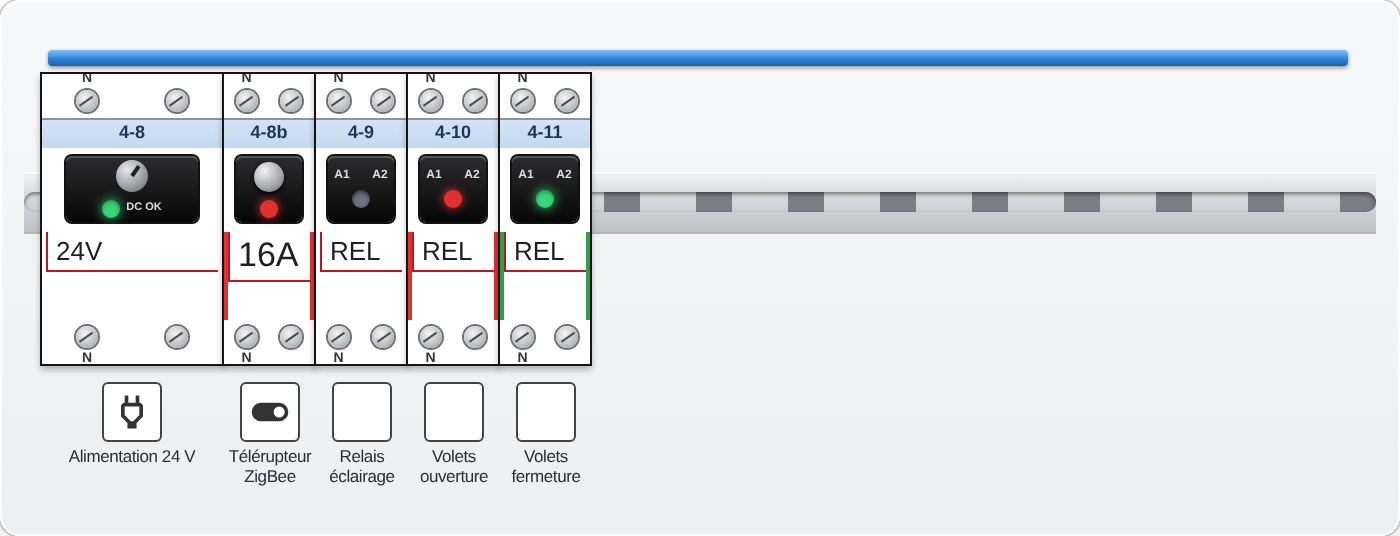
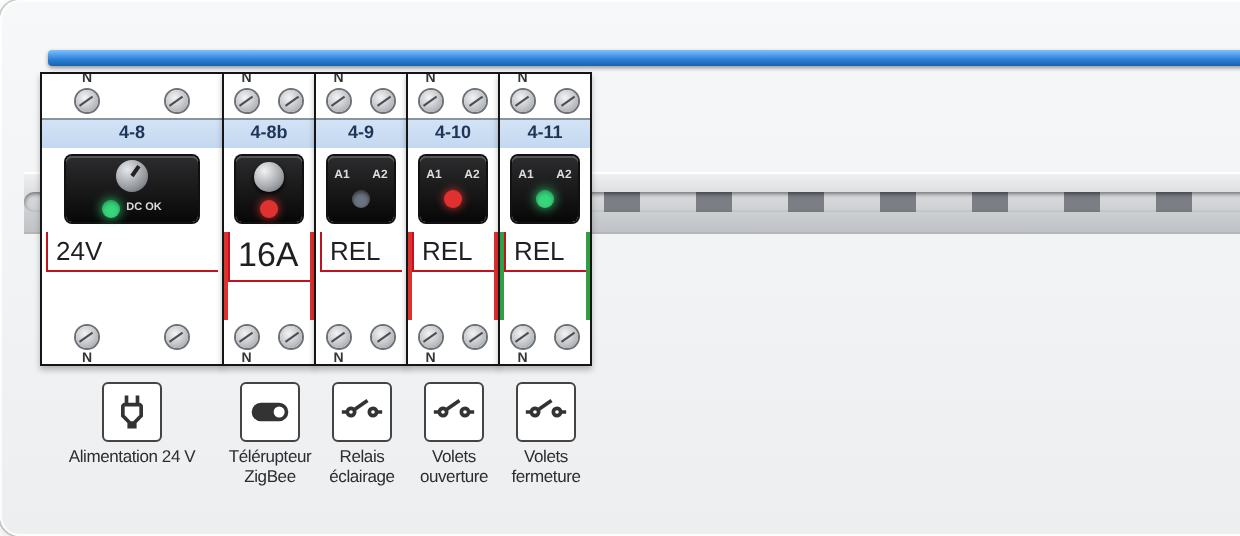
Version 1.17.2 : captures du README (nouveau look) + icône par défaut du relais corrigée
Claude-Session: https://claude.ai/code/session_01Sw7amaXGFQDcEWAWfyfn9E

diff --git a/dist/din-panel-card.js b/dist/din-panel-card.js
@@ -363,7 +363,7 @@ var Ce=globalThis,Me=Ce.ShadowRoot&&(Ce.ShadyCSS===void 0||Ce.ShadyCSS.nativeSha
   button.add { margin: 6px 0; } button.danger { color: var(--error-color); }
   .banner { padding: 10px; border-radius: 8px; background: var(--warning-color, #f59f00); color: #000; margin-bottom: 10px; }
   .note { font-size: 12px; color: var(--secondary-text-color); margin: 8px 0; }
-`;var Pt={differential:{type:"differential"},rcd:{type:"differential"},diff:{type:"differential"},breaker:{type:"breaker"},breaker_1p:{type:"breaker",poles:1},breaker_2p:{type:"breaker",poles:2},breaker_3p:{type:"breaker",poles:3},breaker_4p:{type:"breaker",poles:4},three_phase:{type:"breaker",poles:3},tetrapolar:{type:"breaker",poles:4},contactor_daynight:{type:"contactor_daynight"},daynight:{type:"contactor_daynight"},contactor:{type:"contactor"},power_contactor:{type:"contactor"},impulse:{type:"impulse"},telerupteur:{type:"impulse"},tele:{type:"impulse"},relay:{type:"relay"},relais:{type:"relay"},psu:{type:"psu"},power_supply:{type:"psu"},alimentation:{type:"psu"},surge:{type:"surge"},surge_arrester:{type:"surge"},meter:{type:"meter"},free:{type:"free"},custom:{type:"custom"}},kn={differential:{poles:2},breaker:{poles:1},contactor_daynight:{poles:1,width:2},contactor:{poles:1,width:2},impulse:{poles:2,width:1},relay:{poles:2,width:1},psu:{poles:2,width:2},surge:{poles:2},meter:{poles:2,width:4},free:{poles:1,width:1},custom:{poles:1,width:1}},Rt=(t,e,n)=>Math.min(n,Math.max(e,t)),I=t=>t==null||t===""?void 0:String(t);function Le(t){let e={};for(let[n,o]of Object.entries(t))o!=null&&o!==""&&(e[n]=o);return e}function Ge(t){return[{id:"tableau_1",label:"Tableau principal",rows:t.map(n=>{let o=(n.phases?.length??0)>=3,r=Le({id:n.id,type:"differential",label:n.label,poles:n.poles??(o?4:void 0),amp:n.amp,mA:n.mA,class:n.class,sensor:n.sensor,max_w:n.max_w,accent:n.accent}),s=(n.circuits??[]).map(a=>{let{type:d,...i}=a;return Le({...i,type:"breaker",usage:d,poles:a.poles??(o?3:void 0)})});return Le({id:String(n.id),label:n.label??String(n.id),phases:n.phases,accent:n.accent,modules:[r,...s]})})}]}function An(t){let e={circuits:new Map,groups:new Map};for(let n of t??[]){e.groups.set(String(n.id),n);for(let o of n.circuits??[])e.circuits.has(String(o.id))||e.circuits.set(String(o.id),o)}return e}function Cn(t){return typeof t=="string"?{room:t}:Le({floor:I(t.floor),room:I(t.room),icon:t.icon,sensor:t.sensor})}function Mn(t,e,n,o){let r={...t};if(t.circuit!==void 0&&o.circuits.has(String(t.circuit))){let g=o.circuits.get(String(t.circuit)),{type:y,...M}=g;r={...M,type:"breaker",usage:y,...t}}if(t.group!==void 0&&o.groups.has(String(t.group))){let{circuits:g,...y}=o.groups.get(String(t.group));r={...y,type:"differential",...t}}let s=Pt[String(r.type??"breaker").toLowerCase()]??Pt.custom,a=s.type,d=(r.phases??e.phases).map(g=>String(g).toUpperCase()),i=kn[a],c=r.poles??s.poles??(a==="breaker"&&d.length>=3?3:void 0),v=Rt(Number(r.width??i.width??c??i.poles)||1,1,12),x=Rt(Number(c??(a==="breaker"&&v===1?2:i.poles))||1,1,4),f=["power","socket","light"].includes(String(r.usage))?r.usage:"other";return{id:I(r.id)??`${e.id}-${n+1}`,type:a,label:I(r.label),poles:x,width:v,amp:r.amp!==void 0?Number(r.amp):void 0,mA:r.mA!==void 0?Number(r.mA):void 0,cls:I(r.class),curve:I(r.curve),usage:f,icon:r.icon,accent:r.accent,phases:d,sensor:r.sensor,current_sensor:r.current_sensor,voltage_sensor:r.voltage_sensor,state_entity:r.state_entity,max_w:r.max_w!==void 0?Number(r.max_w):void 0,zones:(r.zones??[]).map(Cn),note:I(r.note),output:I(r.output),section:I(r.section)}}function Sn(t,e,n){let o=I(t.id)??`row_${e+1}`,r=(t.phases??[]).map(d=>String(d).toUpperCase()),s=(t.modules??[]).map((d,i)=>Mn(d,{phases:r,id:o},i,n)),a;for(let d of s)d.type==="differential"?(a=d,d.children=[]):a&&d.type!=="free"&&d.type!=="meter"&&a.children.push(d);return{id:o,label:I(t.label),phases:r,accent:t.accent,modules:s}}function En(t){let e=Math.floor(Number(t));return Number.isFinite(e)&&e>=1?Math.min(e,60):void 0}function Tt(t){let e=An(t.groups),n=t.panels??(t.groups?Ge(t.groups):[]),o=Number(t.nominal_voltage)>0?Number(t.nominal_voltage):void 0,r=n.map((s,a)=>({id:I(s.id)??`panel_${a+1}`,label:I(s.label),capacity:En(s.modules_per_row??t.modules_per_row),rows:(s.rows??[]).map((d,i)=>Sn(d,i,e))}));if(o)for(let s of r)for(let a of s.rows)for(let d of a.modules)d.volts=o;return r}function Ot(t){if(!t||!t.panels&&!t.groups)throw new Error("Configuration invalide : d\xE9finir 'panels' (nouveau format) ou 'groups' (ancien format).");if(t.max_width!==void 0&&!(typeof t.max_width=="number"&&t.max_width>0))throw new Error("'max_width' doit \xEAtre un nombre positif de pixels (ex. 1100), sans unit\xE9.");let e=n=>n!==void 0&&!(Number.isInteger(n)&&n>=1);if(e(t.modules_per_row)||(t.panels??[]).some(n=>e(n.modules_per_row)))throw new Error("'modules_per_row' doit \xEAtre un entier \u2265 1 (nombre de modules DIN par rang\xE9e).");if(t.panels&&!Array.isArray(t.panels))throw new Error("'panels' doit \xEAtre une liste.");if(t.groups&&!Array.isArray(t.groups))throw new Error("'groups' doit \xEAtre une liste.")}function Nt(t,e){let n=new Set,o=r=>{r&&n.add(r)};o(t.sensors?.total?.entity),o(t.sensors?.total?.current_sensor),o(t.sensors?.total?.voltage_sensor);for(let r of Object.values(t.sensors?.phases??{}))o(r?.entity),o(r?.current_sensor),o(r?.voltage_sensor);for(let r of e)for(let s of r.rows)for(let a of s.modules){o(a.sensor),o(a.current_sensor),o(a.voltage_sensor),o(a.state_entity);for(let d of a.zones)o(d.sensor)}return[...n]}var Ze=t=>!t||t==="unavailable"||t==="unknown";function Ye(t,e,n="raw"){if(!e)return{status:"none",value:null};let o=t.states[e];if(!o||Ze(o.state))return{status:"unavailable",value:null};let r=parseFloat(o.state);return Number.isFinite(r)?(n==="current"&&o.attributes?.unit_of_measurement==="mA"&&(r/=1e3),{status:"ok",value:r}):{status:"unavailable",value:null}}var zn={W:["power",1],kW:["power",1e3],MW:["power",1e6],mW:["power",.001],Wh:["energy",1],kWh:["energy",1e3],MWh:["energy",1e6],A:["current",1],mA:["current",.001],V:["voltage",1],mV:["voltage",.001],kV:["voltage",1e3]},Ln={power:["power",1],energy:["energy",1e3],current:["current",1],voltage:["voltage",1]};function G(t,e,n="power"){if(!e)return{status:"none",value:null,kind:n};let o=t.states[e],r=o?.attributes??{},[s,a]=zn[r.unit_of_measurement]??Ln[r.device_class]??[n,1];if(!o||Ze(o.state))return{status:"unavailable",value:null,kind:s};let d=parseFloat(o.state);return Number.isFinite(d)?{status:"ok",value:d*a,kind:s}:{status:"unavailable",value:null,kind:s}}function T(t,e){if(!e)return null;let n=t.states[e]?.state?.toLowerCase();if(!n||Ze(n))return null;if(["on","true","closed","active","enabled","home","heat","playing","1"].includes(n))return!0;if(["off","false","open","inactive","disabled","not_home","idle","standby","0"].includes(n))return!1;let o=parseFloat(n);return Number.isFinite(o)?o>0:null}var Ht=["power","energy","current","voltage"],jt=(t,e)=>Ht.indexOf(t.kind)-Ht.indexOf(e.kind);function Ut(t,e,n=t.length){let o=[...new Set(t.map(a=>a.kind))],r=o.filter(a=>t.some(d=>d.kind===a&&d.value!==null));return(r.length?r:o.slice(0,1)).map(a=>{let d=t.filter(i=>i.kind===a&&i.value!==null);return{kind:a,source:e,value:d.length?d.reduce((i,c)=>i+c.value,0):null,partial:d.length<n||d.some(i=>i.partial)}}).sort(jt)}var Pn=t=>{let e=t[0];return t.length?{configured:!0,value:e.value,kind:e.kind,source:e.source,partial:e.partial,counters:t}:{configured:!1,value:null,kind:"power",source:"none",partial:!1,counters:[]}},It=new WeakMap;function j(t,e){let n=It.get(e);if(n&&n.h===t)return n.p;let o=Rn(t,e);return It.set(e,{h:t,p:o}),o}function Rn(t,e){let n=[],o=(d,i)=>{if(!d)return;let c=G(t,d,i);n.some(v=>v.kind===c.kind)||n.push({kind:c.kind,value:c.value,partial:!1,source:"sensor"})};o(e.sensor,"power"),o(e.current_sensor,"current");let r=[],s=e.zones.filter(d=>d.sensor);if(s.length)r=Ut(s.map(d=>G(t,d.sensor)),"zones",e.zones.length);else if(e.children?.length){let d=e.children.map(i=>j(t,i));if(d.some(i=>i.configured)){let i=d.flatMap(c=>c.counters.map(v=>({...v,partial:v.partial})));r=Ut(i,"children",d.length),d.some(c=>!c.configured)&&(r=r.map(c=>({...c,partial:!0})))}}let a=[...n,...r.filter(d=>!n.some(i=>i.kind===d.kind))].sort(jt);return Pn(a)}function ce(t,e="power"){if(!(e==="energy"||e==="voltage")){if(e==="current")return t.amp;if(t.max_w)return t.max_w;if(t.amp)return t.amp*(t.volts??230)*(t.poles>=3?3:1)}}function Dt(t,e,n){let o=n.counters.find(a=>a.kind==="current");if(o)return o.value;let r=n.counters.find(a=>a.kind==="power"),s=Ye(t,e.voltage_sensor);return s.value&&r&&r.value!==null?r.value/s.value:null}function Xe(t){let e=Math.abs(t);return e>=1e4?`${(t/1e3).toFixed(1)} kW`:e>=1e3?`${(t/1e3).toFixed(2)} kW`:`${Math.round(t)} W`}function Tn(t,e=!1){let n=t/1e3,o=Math.abs(n);return`${n.toFixed(e?o>=1e3?0:1:o>=1e3?0:o>=100?1:2)} kWh`}function On(t){let e=Math.abs(t);return`${t.toFixed(e>=100?0:e>=10?1:2)} A`}var Nn=t=>`${t.toFixed(t>=100?0:1)} V`,O=(t,e,n=!1)=>t==="energy"?Tn(e,n):t==="current"?On(e):t==="voltage"?Nn(e):Xe(e);function $e(t,e){let n=[];if(!e)return n;let o;if(e.entity){let s=G(t,e.entity);(s.kind==="power"||s.kind==="energy")&&(n.push({kind:s.kind,value:s.value,entity:e.entity}),o=s)}let r;if(e.current_sensor&&(r=G(t,e.current_sensor,"current"),n.push({kind:"current",value:r.value,entity:e.current_sensor})),e.voltage_sensor){let s=G(t,e.voltage_sensor,"voltage");n.push({kind:"voltage",value:s.value,entity:e.voltage_sensor})}else o?.kind==="power"&&o.value!==null&&r?.value&&r.value>.05&&o.value>0&&n.push({kind:"voltage",value:o.value/r.value,entity:e.current_sensor,approx:!0});return n.sort((s,a)=>["power","energy","current","voltage"].indexOf(s.kind)-["power","energy","current","voltage"].indexOf(a.kind))}function Pe(t,e,n){if(!e)return[];let o=Object.entries(e.phases??{}).filter(([,i])=>i&&(i.entity||i.current_sensor||i.voltage_sensor)),r=i=>$e(t,i).find(c=>c.kind==="power")?.value??null,s=Math.max(0,...o.map(([,i])=>r(i)??0)),a=(i,c,v,x)=>{let f=$e(t,v);if(!f.length)return;let g=f.find(M=>M.kind==="power"),y=g&&g.value!==null&&x?Math.max(0,g.value)/x:null;return{key:i,label:c,items:f,pct:y,limit:x,entity:v?.entity??v?.current_sensor??v?.voltage_sensor}},d=i=>i?.max_w??(e.total?.max_w&&o.length?e.total.max_w/o.length:s||void 0);return[a("total",n,e.total,e.total?.max_w),...o.map(([i,c])=>a(i.toUpperCase(),i.toUpperCase(),c,d(c)))].filter(i=>!!i)}var Wt={fr:{total:"Total",incoming:"Arriv\xE9e",nominal_voltage:"Tension nominale (V, d\xE9faut 230)",incoming_title:"Titre du cadre d\u2019arriv\xE9e (vue tableau)",phase:"Phase",power:"Puissance",current:"Intensit\xE9",voltage:"Tension",load:"Charge",zones:"Zones",protects:"Circuits prot\xE9g\xE9s",unavailable:"Indisponible",close:"Fermer",type:"Type",id:"Identifiant",rating:"Calibre",poles:"P\xF4les",sensitivity:"Sensibilit\xE9",cls:"Classe",curve:"Courbe",phases:"Phases",usage:"Usage",sum_zones:"Somme des capteurs de zones",sum_children:"Somme des circuits (partielle si certains sans mesure)",own_sensor:"Capteur du module",no_data:"Aucune mesure",max:"Max",state:"\xC9tat",t_differential:"Interrupteur diff\xE9rentiel",t_breaker:"Disjoncteur",t_contactor_daynight:"Contacteur jour/nuit",t_contactor:"Contacteur de puissance",t_impulse:"T\xE9l\xE9rupteur",t_relay:"Relais",t_psu:"Alimentation",output:"Sortie",section:"Section du c\xE2ble (mm\xB2)",modules_per_row:"Modules DIN par rang\xE9e",t_surge:"Parafoudre",t_meter:"Compteur \xE9lectrique",t_free:"Module libre",t_custom:"Module personnalis\xE9",u_power:"Puissance",u_socket:"Prises",u_light:"\xC9clairage",u_other:"Autre",panel:"Tableau",row:"Rang\xE9e",module:"Module",add_row:"Ajouter une rang\xE9e",add_module:"Ajouter un module",add_panel:"Ajouter un tableau",add_zone:"Ajouter une zone",remove:"Supprimer",legacy:"Ancien format (groups) d\xE9tect\xE9.",convert:"Convertir en panels / rows / modules",general:"G\xE9n\xE9ral",global_sensors:"Capteurs globaux",title:"Titre",language:"Langue",module_width:"Largeur d\u2019un module (px)",total_entity:"Capteur total (W ou kWh)",head_sensor:"Capteur (W ou kWh)",total_max:"Puissance max totale (W)",label:"Libell\xE9",amp:"Calibre (A)",width:"Largeur (modules DIN)",icon:"Ic\xF4ne",sensor:"Capteur (W, kWh ou A)",current_sensor:"Capteur d\u2019intensit\xE9",voltage_sensor:"Capteur de tension",state_entity:"\xC9tat (capteur, switch\u2026 on/off)",floor:"\xC9tage",room:"Pi\xE8ce",mA:"Sensibilit\xE9 (mA)",max_w:"Puissance max (W)",accent:"Couleur d\u2019accent",editor_note:"Les options avanc\xE9es restent \xE9ditables en YAML.",free:"Libre",view_tree:"Sch\xE9ma",collapse_level:"Replier un niveau",collapsed:"Repli initial",max_width:"Largeur max du sch\xE9ma (px)",view_panel:"Tableau",expand_all:"Tout d\xE9plier",collapse_all:"Tout replier",view:"Vue initiale",expand:"D\xE9plier / replier"},en:{total:"Total",incoming:"Incoming",nominal_voltage:"Nominal voltage (V, default 230)",incoming_title:"Incoming frame title (panel view)",phase:"Phase",power:"Power",current:"Current",voltage:"Voltage",load:"Load",zones:"Zones",protects:"Protected circuits",unavailable:"Unavailable",close:"Close",type:"Type",id:"Identifier",rating:"Rating",poles:"Poles",sensitivity:"Sensitivity",cls:"Class",curve:"Curve",phases:"Phases",usage:"Usage",sum_zones:"Sum of zone sensors",sum_children:"Sum of circuits (partial if some have no measurement)",own_sensor:"Module sensor",no_data:"No measurement",max:"Max",state:"State",t_differential:"RCD (differential switch)",t_breaker:"Circuit breaker",t_contactor_daynight:"Day/night contactor",t_contactor:"Power contactor",t_impulse:"Impulse relay (t\xE9l\xE9rupteur)",t_relay:"Relay",t_psu:"Power supply",output:"Output",section:"Cable cross-section (mm\xB2)",modules_per_row:"DIN modules per row",t_surge:"Surge arrester",t_meter:"Energy meter",t_free:"Free module",t_custom:"Custom module",u_power:"Power",u_socket:"Sockets",u_light:"Lighting",u_other:"Other",panel:"Panel",row:"Row",module:"Module",add_row:"Add row",add_module:"Add module",add_panel:"Add panel",add_zone:"Add zone",remove:"Remove",legacy:"Legacy format (groups) detected.",convert:"Convert to panels / rows / modules",general:"General",global_sensors:"Global sensors",title:"Title",language:"Language",module_width:"Module width (px)",total_entity:"Total sensor (W or kWh)",head_sensor:"Sensor (W or kWh)",total_max:"Max total power (W)",label:"Label",amp:"Rating (A)",width:"Width (DIN modules)",icon:"Icon",sensor:"Sensor (W, kWh or A)",current_sensor:"Current sensor",voltage_sensor:"Voltage sensor",state_entity:"State (sensor, switch\u2026 on/off)",floor:"Floor",room:"Room",mA:"Sensitivity (mA)",max_w:"Max power (W)",accent:"Accent colour",editor_note:"Advanced options remain editable in YAML.",free:"Free",view_tree:"Diagram",collapse_level:"Collapse one level",collapsed:"Initial collapse",max_width:"Max diagram width (px)",view_panel:"Panel",expand_all:"Expand all",collapse_all:"Collapse all",view:"Initial view",expand:"Expand / collapse"}},$=(t,e)=>Wt[t][e]??Wt.fr[e]??e;var B={power:"mdi:flash",socket:"mdi:power-socket-eu",light:"mdi:lightbulb",other:"mdi:electric-switch",differential:"mdi:current-ac",surge:"mdi:flash-alert",meter:"mdi:counter",contactor:"mdi:electric-switch-closed",contactor_daynight:"mdi:theme-light-dark",impulse:"mdi:toggle-switch",relay:"mdi:relay",psu:"mdi:power-plug-outline"};var Hn=t=>t.amp!==void 0?p`<div class="print amp">${t.curve??""}${t.amp}${t.curve?"":"A"}</div>`:h;function Un(t,e){let n=Math.max(1,Math.min(t.poles,t.width));return p`<div class="levers ${e?"on":"off"}">
+`;var Pt={differential:{type:"differential"},rcd:{type:"differential"},diff:{type:"differential"},breaker:{type:"breaker"},breaker_1p:{type:"breaker",poles:1},breaker_2p:{type:"breaker",poles:2},breaker_3p:{type:"breaker",poles:3},breaker_4p:{type:"breaker",poles:4},three_phase:{type:"breaker",poles:3},tetrapolar:{type:"breaker",poles:4},contactor_daynight:{type:"contactor_daynight"},daynight:{type:"contactor_daynight"},contactor:{type:"contactor"},power_contactor:{type:"contactor"},impulse:{type:"impulse"},telerupteur:{type:"impulse"},tele:{type:"impulse"},relay:{type:"relay"},relais:{type:"relay"},psu:{type:"psu"},power_supply:{type:"psu"},alimentation:{type:"psu"},surge:{type:"surge"},surge_arrester:{type:"surge"},meter:{type:"meter"},free:{type:"free"},custom:{type:"custom"}},kn={differential:{poles:2},breaker:{poles:1},contactor_daynight:{poles:1,width:2},contactor:{poles:1,width:2},impulse:{poles:2,width:1},relay:{poles:2,width:1},psu:{poles:2,width:2},surge:{poles:2},meter:{poles:2,width:4},free:{poles:1,width:1},custom:{poles:1,width:1}},Rt=(t,e,n)=>Math.min(n,Math.max(e,t)),I=t=>t==null||t===""?void 0:String(t);function Le(t){let e={};for(let[n,o]of Object.entries(t))o!=null&&o!==""&&(e[n]=o);return e}function Ge(t){return[{id:"tableau_1",label:"Tableau principal",rows:t.map(n=>{let o=(n.phases?.length??0)>=3,r=Le({id:n.id,type:"differential",label:n.label,poles:n.poles??(o?4:void 0),amp:n.amp,mA:n.mA,class:n.class,sensor:n.sensor,max_w:n.max_w,accent:n.accent}),s=(n.circuits??[]).map(a=>{let{type:d,...i}=a;return Le({...i,type:"breaker",usage:d,poles:a.poles??(o?3:void 0)})});return Le({id:String(n.id),label:n.label??String(n.id),phases:n.phases,accent:n.accent,modules:[r,...s]})})}]}function An(t){let e={circuits:new Map,groups:new Map};for(let n of t??[]){e.groups.set(String(n.id),n);for(let o of n.circuits??[])e.circuits.has(String(o.id))||e.circuits.set(String(o.id),o)}return e}function Cn(t){return typeof t=="string"?{room:t}:Le({floor:I(t.floor),room:I(t.room),icon:t.icon,sensor:t.sensor})}function Mn(t,e,n,o){let r={...t};if(t.circuit!==void 0&&o.circuits.has(String(t.circuit))){let g=o.circuits.get(String(t.circuit)),{type:y,...M}=g;r={...M,type:"breaker",usage:y,...t}}if(t.group!==void 0&&o.groups.has(String(t.group))){let{circuits:g,...y}=o.groups.get(String(t.group));r={...y,type:"differential",...t}}let s=Pt[String(r.type??"breaker").toLowerCase()]??Pt.custom,a=s.type,d=(r.phases??e.phases).map(g=>String(g).toUpperCase()),i=kn[a],c=r.poles??s.poles??(a==="breaker"&&d.length>=3?3:void 0),v=Rt(Number(r.width??i.width??c??i.poles)||1,1,12),x=Rt(Number(c??(a==="breaker"&&v===1?2:i.poles))||1,1,4),f=["power","socket","light"].includes(String(r.usage))?r.usage:"other";return{id:I(r.id)??`${e.id}-${n+1}`,type:a,label:I(r.label),poles:x,width:v,amp:r.amp!==void 0?Number(r.amp):void 0,mA:r.mA!==void 0?Number(r.mA):void 0,cls:I(r.class),curve:I(r.curve),usage:f,icon:r.icon,accent:r.accent,phases:d,sensor:r.sensor,current_sensor:r.current_sensor,voltage_sensor:r.voltage_sensor,state_entity:r.state_entity,max_w:r.max_w!==void 0?Number(r.max_w):void 0,zones:(r.zones??[]).map(Cn),note:I(r.note),output:I(r.output),section:I(r.section)}}function Sn(t,e,n){let o=I(t.id)??`row_${e+1}`,r=(t.phases??[]).map(d=>String(d).toUpperCase()),s=(t.modules??[]).map((d,i)=>Mn(d,{phases:r,id:o},i,n)),a;for(let d of s)d.type==="differential"?(a=d,d.children=[]):a&&d.type!=="free"&&d.type!=="meter"&&a.children.push(d);return{id:o,label:I(t.label),phases:r,accent:t.accent,modules:s}}function En(t){let e=Math.floor(Number(t));return Number.isFinite(e)&&e>=1?Math.min(e,60):void 0}function Tt(t){let e=An(t.groups),n=t.panels??(t.groups?Ge(t.groups):[]),o=Number(t.nominal_voltage)>0?Number(t.nominal_voltage):void 0,r=n.map((s,a)=>({id:I(s.id)??`panel_${a+1}`,label:I(s.label),capacity:En(s.modules_per_row??t.modules_per_row),rows:(s.rows??[]).map((d,i)=>Sn(d,i,e))}));if(o)for(let s of r)for(let a of s.rows)for(let d of a.modules)d.volts=o;return r}function Ot(t){if(!t||!t.panels&&!t.groups)throw new Error("Configuration invalide : d\xE9finir 'panels' (nouveau format) ou 'groups' (ancien format).");if(t.max_width!==void 0&&!(typeof t.max_width=="number"&&t.max_width>0))throw new Error("'max_width' doit \xEAtre un nombre positif de pixels (ex. 1100), sans unit\xE9.");let e=n=>n!==void 0&&!(Number.isInteger(n)&&n>=1);if(e(t.modules_per_row)||(t.panels??[]).some(n=>e(n.modules_per_row)))throw new Error("'modules_per_row' doit \xEAtre un entier \u2265 1 (nombre de modules DIN par rang\xE9e).");if(t.panels&&!Array.isArray(t.panels))throw new Error("'panels' doit \xEAtre une liste.");if(t.groups&&!Array.isArray(t.groups))throw new Error("'groups' doit \xEAtre une liste.")}function Nt(t,e){let n=new Set,o=r=>{r&&n.add(r)};o(t.sensors?.total?.entity),o(t.sensors?.total?.current_sensor),o(t.sensors?.total?.voltage_sensor);for(let r of Object.values(t.sensors?.phases??{}))o(r?.entity),o(r?.current_sensor),o(r?.voltage_sensor);for(let r of e)for(let s of r.rows)for(let a of s.modules){o(a.sensor),o(a.current_sensor),o(a.voltage_sensor),o(a.state_entity);for(let d of a.zones)o(d.sensor)}return[...n]}var Ze=t=>!t||t==="unavailable"||t==="unknown";function Ye(t,e,n="raw"){if(!e)return{status:"none",value:null};let o=t.states[e];if(!o||Ze(o.state))return{status:"unavailable",value:null};let r=parseFloat(o.state);return Number.isFinite(r)?(n==="current"&&o.attributes?.unit_of_measurement==="mA"&&(r/=1e3),{status:"ok",value:r}):{status:"unavailable",value:null}}var zn={W:["power",1],kW:["power",1e3],MW:["power",1e6],mW:["power",.001],Wh:["energy",1],kWh:["energy",1e3],MWh:["energy",1e6],A:["current",1],mA:["current",.001],V:["voltage",1],mV:["voltage",.001],kV:["voltage",1e3]},Ln={power:["power",1],energy:["energy",1e3],current:["current",1],voltage:["voltage",1]};function G(t,e,n="power"){if(!e)return{status:"none",value:null,kind:n};let o=t.states[e],r=o?.attributes??{},[s,a]=zn[r.unit_of_measurement]??Ln[r.device_class]??[n,1];if(!o||Ze(o.state))return{status:"unavailable",value:null,kind:s};let d=parseFloat(o.state);return Number.isFinite(d)?{status:"ok",value:d*a,kind:s}:{status:"unavailable",value:null,kind:s}}function T(t,e){if(!e)return null;let n=t.states[e]?.state?.toLowerCase();if(!n||Ze(n))return null;if(["on","true","closed","active","enabled","home","heat","playing","1"].includes(n))return!0;if(["off","false","open","inactive","disabled","not_home","idle","standby","0"].includes(n))return!1;let o=parseFloat(n);return Number.isFinite(o)?o>0:null}var Ht=["power","energy","current","voltage"],jt=(t,e)=>Ht.indexOf(t.kind)-Ht.indexOf(e.kind);function Ut(t,e,n=t.length){let o=[...new Set(t.map(a=>a.kind))],r=o.filter(a=>t.some(d=>d.kind===a&&d.value!==null));return(r.length?r:o.slice(0,1)).map(a=>{let d=t.filter(i=>i.kind===a&&i.value!==null);return{kind:a,source:e,value:d.length?d.reduce((i,c)=>i+c.value,0):null,partial:d.length<n||d.some(i=>i.partial)}}).sort(jt)}var Pn=t=>{let e=t[0];return t.length?{configured:!0,value:e.value,kind:e.kind,source:e.source,partial:e.partial,counters:t}:{configured:!1,value:null,kind:"power",source:"none",partial:!1,counters:[]}},It=new WeakMap;function j(t,e){let n=It.get(e);if(n&&n.h===t)return n.p;let o=Rn(t,e);return It.set(e,{h:t,p:o}),o}function Rn(t,e){let n=[],o=(d,i)=>{if(!d)return;let c=G(t,d,i);n.some(v=>v.kind===c.kind)||n.push({kind:c.kind,value:c.value,partial:!1,source:"sensor"})};o(e.sensor,"power"),o(e.current_sensor,"current");let r=[],s=e.zones.filter(d=>d.sensor);if(s.length)r=Ut(s.map(d=>G(t,d.sensor)),"zones",e.zones.length);else if(e.children?.length){let d=e.children.map(i=>j(t,i));if(d.some(i=>i.configured)){let i=d.flatMap(c=>c.counters.map(v=>({...v,partial:v.partial})));r=Ut(i,"children",d.length),d.some(c=>!c.configured)&&(r=r.map(c=>({...c,partial:!0})))}}let a=[...n,...r.filter(d=>!n.some(i=>i.kind===d.kind))].sort(jt);return Pn(a)}function ce(t,e="power"){if(!(e==="energy"||e==="voltage")){if(e==="current")return t.amp;if(t.max_w)return t.max_w;if(t.amp)return t.amp*(t.volts??230)*(t.poles>=3?3:1)}}function Dt(t,e,n){let o=n.counters.find(a=>a.kind==="current");if(o)return o.value;let r=n.counters.find(a=>a.kind==="power"),s=Ye(t,e.voltage_sensor);return s.value&&r&&r.value!==null?r.value/s.value:null}function Xe(t){let e=Math.abs(t);return e>=1e4?`${(t/1e3).toFixed(1)} kW`:e>=1e3?`${(t/1e3).toFixed(2)} kW`:`${Math.round(t)} W`}function Tn(t,e=!1){let n=t/1e3,o=Math.abs(n);return`${n.toFixed(e?o>=1e3?0:1:o>=1e3?0:o>=100?1:2)} kWh`}function On(t){let e=Math.abs(t);return`${t.toFixed(e>=100?0:e>=10?1:2)} A`}var Nn=t=>`${t.toFixed(t>=100?0:1)} V`,O=(t,e,n=!1)=>t==="energy"?Tn(e,n):t==="current"?On(e):t==="voltage"?Nn(e):Xe(e);function $e(t,e){let n=[];if(!e)return n;let o;if(e.entity){let s=G(t,e.entity);(s.kind==="power"||s.kind==="energy")&&(n.push({kind:s.kind,value:s.value,entity:e.entity}),o=s)}let r;if(e.current_sensor&&(r=G(t,e.current_sensor,"current"),n.push({kind:"current",value:r.value,entity:e.current_sensor})),e.voltage_sensor){let s=G(t,e.voltage_sensor,"voltage");n.push({kind:"voltage",value:s.value,entity:e.voltage_sensor})}else o?.kind==="power"&&o.value!==null&&r?.value&&r.value>.05&&o.value>0&&n.push({kind:"voltage",value:o.value/r.value,entity:e.current_sensor,approx:!0});return n.sort((s,a)=>["power","energy","current","voltage"].indexOf(s.kind)-["power","energy","current","voltage"].indexOf(a.kind))}function Pe(t,e,n){if(!e)return[];let o=Object.entries(e.phases??{}).filter(([,i])=>i&&(i.entity||i.current_sensor||i.voltage_sensor)),r=i=>$e(t,i).find(c=>c.kind==="power")?.value??null,s=Math.max(0,...o.map(([,i])=>r(i)??0)),a=(i,c,v,x)=>{let f=$e(t,v);if(!f.length)return;let g=f.find(M=>M.kind==="power"),y=g&&g.value!==null&&x?Math.max(0,g.value)/x:null;return{key:i,label:c,items:f,pct:y,limit:x,entity:v?.entity??v?.current_sensor??v?.voltage_sensor}},d=i=>i?.max_w??(e.total?.max_w&&o.length?e.total.max_w/o.length:s||void 0);return[a("total",n,e.total,e.total?.max_w),...o.map(([i,c])=>a(i.toUpperCase(),i.toUpperCase(),c,d(c)))].filter(i=>!!i)}var Wt={fr:{total:"Total",incoming:"Arriv\xE9e",nominal_voltage:"Tension nominale (V, d\xE9faut 230)",incoming_title:"Titre du cadre d\u2019arriv\xE9e (vue tableau)",phase:"Phase",power:"Puissance",current:"Intensit\xE9",voltage:"Tension",load:"Charge",zones:"Zones",protects:"Circuits prot\xE9g\xE9s",unavailable:"Indisponible",close:"Fermer",type:"Type",id:"Identifiant",rating:"Calibre",poles:"P\xF4les",sensitivity:"Sensibilit\xE9",cls:"Classe",curve:"Courbe",phases:"Phases",usage:"Usage",sum_zones:"Somme des capteurs de zones",sum_children:"Somme des circuits (partielle si certains sans mesure)",own_sensor:"Capteur du module",no_data:"Aucune mesure",max:"Max",state:"\xC9tat",t_differential:"Interrupteur diff\xE9rentiel",t_breaker:"Disjoncteur",t_contactor_daynight:"Contacteur jour/nuit",t_contactor:"Contacteur de puissance",t_impulse:"T\xE9l\xE9rupteur",t_relay:"Relais",t_psu:"Alimentation",output:"Sortie",section:"Section du c\xE2ble (mm\xB2)",modules_per_row:"Modules DIN par rang\xE9e",t_surge:"Parafoudre",t_meter:"Compteur \xE9lectrique",t_free:"Module libre",t_custom:"Module personnalis\xE9",u_power:"Puissance",u_socket:"Prises",u_light:"\xC9clairage",u_other:"Autre",panel:"Tableau",row:"Rang\xE9e",module:"Module",add_row:"Ajouter une rang\xE9e",add_module:"Ajouter un module",add_panel:"Ajouter un tableau",add_zone:"Ajouter une zone",remove:"Supprimer",legacy:"Ancien format (groups) d\xE9tect\xE9.",convert:"Convertir en panels / rows / modules",general:"G\xE9n\xE9ral",global_sensors:"Capteurs globaux",title:"Titre",language:"Langue",module_width:"Largeur d\u2019un module (px)",total_entity:"Capteur total (W ou kWh)",head_sensor:"Capteur (W ou kWh)",total_max:"Puissance max totale (W)",label:"Libell\xE9",amp:"Calibre (A)",width:"Largeur (modules DIN)",icon:"Ic\xF4ne",sensor:"Capteur (W, kWh ou A)",current_sensor:"Capteur d\u2019intensit\xE9",voltage_sensor:"Capteur de tension",state_entity:"\xC9tat (capteur, switch\u2026 on/off)",floor:"\xC9tage",room:"Pi\xE8ce",mA:"Sensibilit\xE9 (mA)",max_w:"Puissance max (W)",accent:"Couleur d\u2019accent",editor_note:"Les options avanc\xE9es restent \xE9ditables en YAML.",free:"Libre",view_tree:"Sch\xE9ma",collapse_level:"Replier un niveau",collapsed:"Repli initial",max_width:"Largeur max du sch\xE9ma (px)",view_panel:"Tableau",expand_all:"Tout d\xE9plier",collapse_all:"Tout replier",view:"Vue initiale",expand:"D\xE9plier / replier"},en:{total:"Total",incoming:"Incoming",nominal_voltage:"Nominal voltage (V, default 230)",incoming_title:"Incoming frame title (panel view)",phase:"Phase",power:"Power",current:"Current",voltage:"Voltage",load:"Load",zones:"Zones",protects:"Protected circuits",unavailable:"Unavailable",close:"Close",type:"Type",id:"Identifier",rating:"Rating",poles:"Poles",sensitivity:"Sensitivity",cls:"Class",curve:"Curve",phases:"Phases",usage:"Usage",sum_zones:"Sum of zone sensors",sum_children:"Sum of circuits (partial if some have no measurement)",own_sensor:"Module sensor",no_data:"No measurement",max:"Max",state:"State",t_differential:"RCD (differential switch)",t_breaker:"Circuit breaker",t_contactor_daynight:"Day/night contactor",t_contactor:"Power contactor",t_impulse:"Impulse relay (t\xE9l\xE9rupteur)",t_relay:"Relay",t_psu:"Power supply",output:"Output",section:"Cable cross-section (mm\xB2)",modules_per_row:"DIN modules per row",t_surge:"Surge arrester",t_meter:"Energy meter",t_free:"Free module",t_custom:"Custom module",u_power:"Power",u_socket:"Sockets",u_light:"Lighting",u_other:"Other",panel:"Panel",row:"Row",module:"Module",add_row:"Add row",add_module:"Add module",add_panel:"Add panel",add_zone:"Add zone",remove:"Remove",legacy:"Legacy format (groups) detected.",convert:"Convert to panels / rows / modules",general:"General",global_sensors:"Global sensors",title:"Title",language:"Language",module_width:"Module width (px)",total_entity:"Total sensor (W or kWh)",head_sensor:"Sensor (W or kWh)",total_max:"Max total power (W)",label:"Label",amp:"Rating (A)",width:"Width (DIN modules)",icon:"Icon",sensor:"Sensor (W, kWh or A)",current_sensor:"Current sensor",voltage_sensor:"Voltage sensor",state_entity:"State (sensor, switch\u2026 on/off)",floor:"Floor",room:"Room",mA:"Sensitivity (mA)",max_w:"Max power (W)",accent:"Accent colour",editor_note:"Advanced options remain editable in YAML.",free:"Free",view_tree:"Diagram",collapse_level:"Collapse one level",collapsed:"Initial collapse",max_width:"Max diagram width (px)",view_panel:"Panel",expand_all:"Expand all",collapse_all:"Collapse all",view:"Initial view",expand:"Expand / collapse"}},$=(t,e)=>Wt[t][e]??Wt.fr[e]??e;var B={power:"mdi:flash",socket:"mdi:power-socket-eu",light:"mdi:lightbulb",other:"mdi:electric-switch",differential:"mdi:current-ac",surge:"mdi:flash-alert",meter:"mdi:counter",contactor:"mdi:electric-switch-closed",contactor_daynight:"mdi:theme-light-dark",impulse:"mdi:toggle-switch",relay:"mdi:electric-switch",psu:"mdi:power-plug-outline"};var Hn=t=>t.amp!==void 0?p`<div class="print amp">${t.curve??""}${t.amp}${t.curve?"":"A"}</div>`:h;function Un(t,e){let n=Math.max(1,Math.min(t.poles,t.width));return p`<div class="levers ${e?"on":"off"}">
     ${Array.from({length:n},()=>p`<div class="cell"><div class="slot"><div class="lever ${e?"on":"off"}"></div></div></div>`)}
     ${n>1?p`<i class="bar"></i>`:h}
   </div>`}var In=({mod:t,ctx:e})=>{let n=T(e.hass,t.state_entity);return p`${Un(t,n!==!1)}${Hn(t)}`},jn=({mod:t,ctx:e})=>{let o=T(e.hass,t.state_entity)!==!1;return p`
@@ -545,7 +545,7 @@ var Ce=globalThis,Me=Ce.ShadowRoot&&(Ce.ShadyCSS===void 0||Ce.ShadyCSS.nativeSha
       ${this._selected?p`<dialog @close=${()=>{this._selected=null}}
             @click=${c=>{c.target===c.currentTarget&&c.currentTarget.close()}}>
             ${Zt(this._selected,o,()=>this.shadowRoot?.querySelector("dialog")?.close())}</dialog>`:h}
-    </ha-card>`}updated(){let n=this.shadowRoot?.querySelector("dialog");n&&this._selected&&!n.open&&n.showModal()}};ke.properties={_config:{state:!0},_selected:{state:!0},_view:{state:!0},_collapsed:{state:!0},_cw:{state:!0}},ke.styles=zt;customElements.get("din-panel-card")||customElements.define("din-panel-card",ke);console.info("%c DIN-PANEL-CARD %c v1.17.1 ","color:#fff;background:#3182ce;font-weight:700","color:#3182ce;background:#fff");window.customCards=window.customCards||[];window.customCards.push({type:"din-panel-card",name:"DIN Panel Card",description:"Tableau \xE9lectrique modulaire graphique (rang\xE9es, rail DIN, modules) aliment\xE9 par les entit\xE9s Home Assistant.",preview:!1});
+    </ha-card>`}updated(){let n=this.shadowRoot?.querySelector("dialog");n&&this._selected&&!n.open&&n.showModal()}};ke.properties={_config:{state:!0},_selected:{state:!0},_view:{state:!0},_collapsed:{state:!0},_cw:{state:!0}},ke.styles=zt;customElements.get("din-panel-card")||customElements.define("din-panel-card",ke);console.info("%c DIN-PANEL-CARD %c v1.17.2 ","color:#fff;background:#3182ce;font-weight:700","color:#3182ce;background:#fff");window.customCards=window.customCards||[];window.customCards.push({type:"din-panel-card",name:"DIN Panel Card",description:"Tableau \xE9lectrique modulaire graphique (rang\xE9es, rail DIN, modules) aliment\xE9 par les entit\xE9s Home Assistant.",preview:!1});
 /*! Bundled license information:
 
 @lit/reactive-element/css-tag.js:

diff --git a/src/components/ctx.ts b/src/components/ctx.ts
@@ -10,5 +10,5 @@ export interface Ctx {
 export const DEFAULT_ICONS: Record<string, string> = {
   power: 'mdi:flash', socket: 'mdi:power-socket-eu', light: 'mdi:lightbulb', other: 'mdi:electric-switch',
   differential: 'mdi:current-ac', surge: 'mdi:flash-alert', meter: 'mdi:counter',
-  contactor: 'mdi:electric-switch-closed', contactor_daynight: 'mdi:theme-light-dark', impulse: 'mdi:toggle-switch', relay: 'mdi:relay', psu: 'mdi:power-plug-outline',
+  contactor: 'mdi:electric-switch-closed', contactor_daynight: 'mdi:theme-light-dark', impulse: 'mdi:toggle-switch', relay: 'mdi:electric-switch', psu: 'mdi:power-plug-outline',
 };

diff --git a/CHANGELOG.md b/CHANGELOG.md
@@ -2,6 +2,9 @@
 
 Chaque nouvelle version incrémente le numéro dans `package.json` (injecté dans le bundle et affiché dans la console du navigateur).
 
+## 1.17.2
+- Correctif : l'icône par défaut du relais (`mdi:relay`) n'existe pas dans MDI et s'affichait vide ; remplacée par `mdi:electric-switch`. Captures du README régénérées.
+
 ## 1.17.1
 - Documentation : captures d'écran du README régénérées avec le nouveau look (données anonymisées).
 
